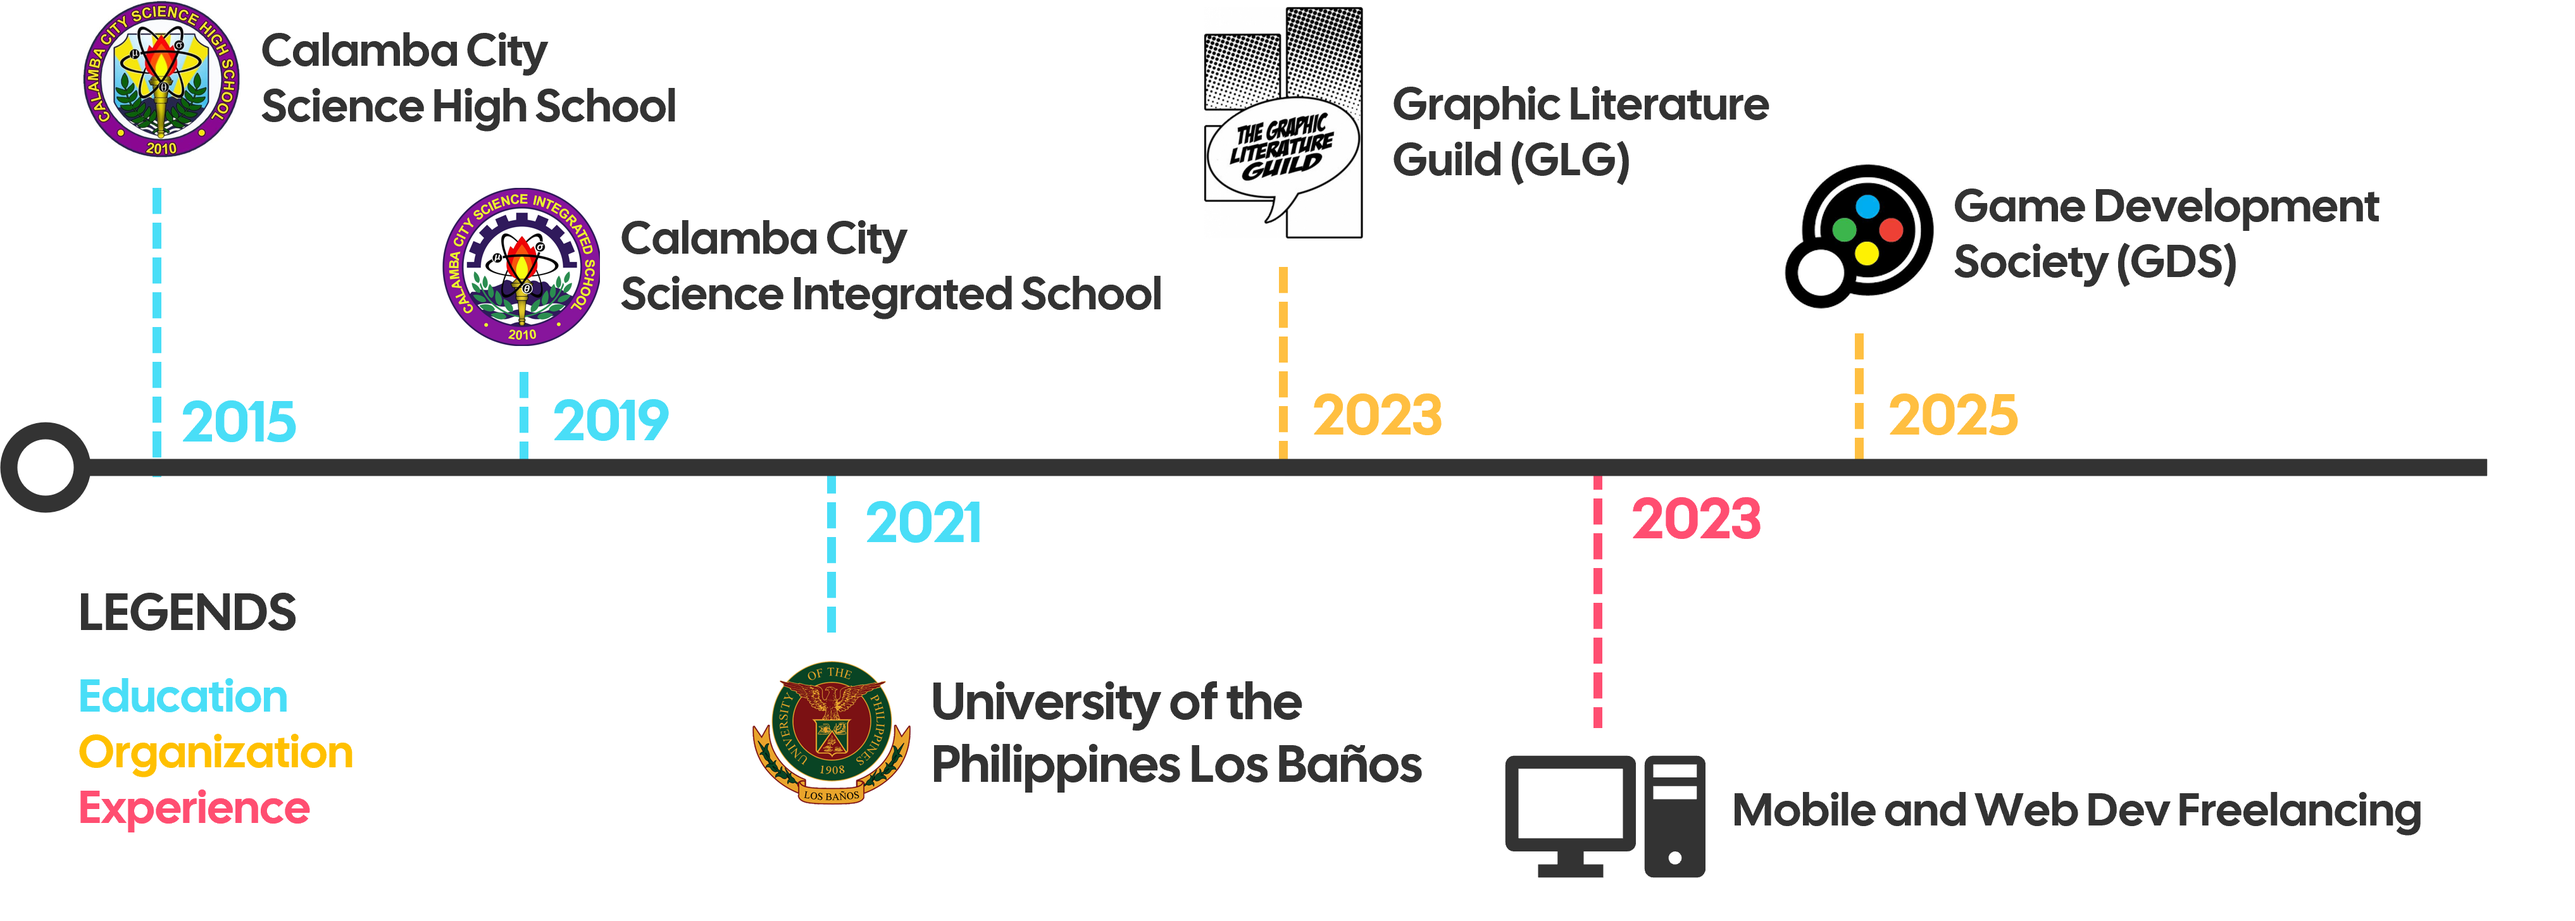
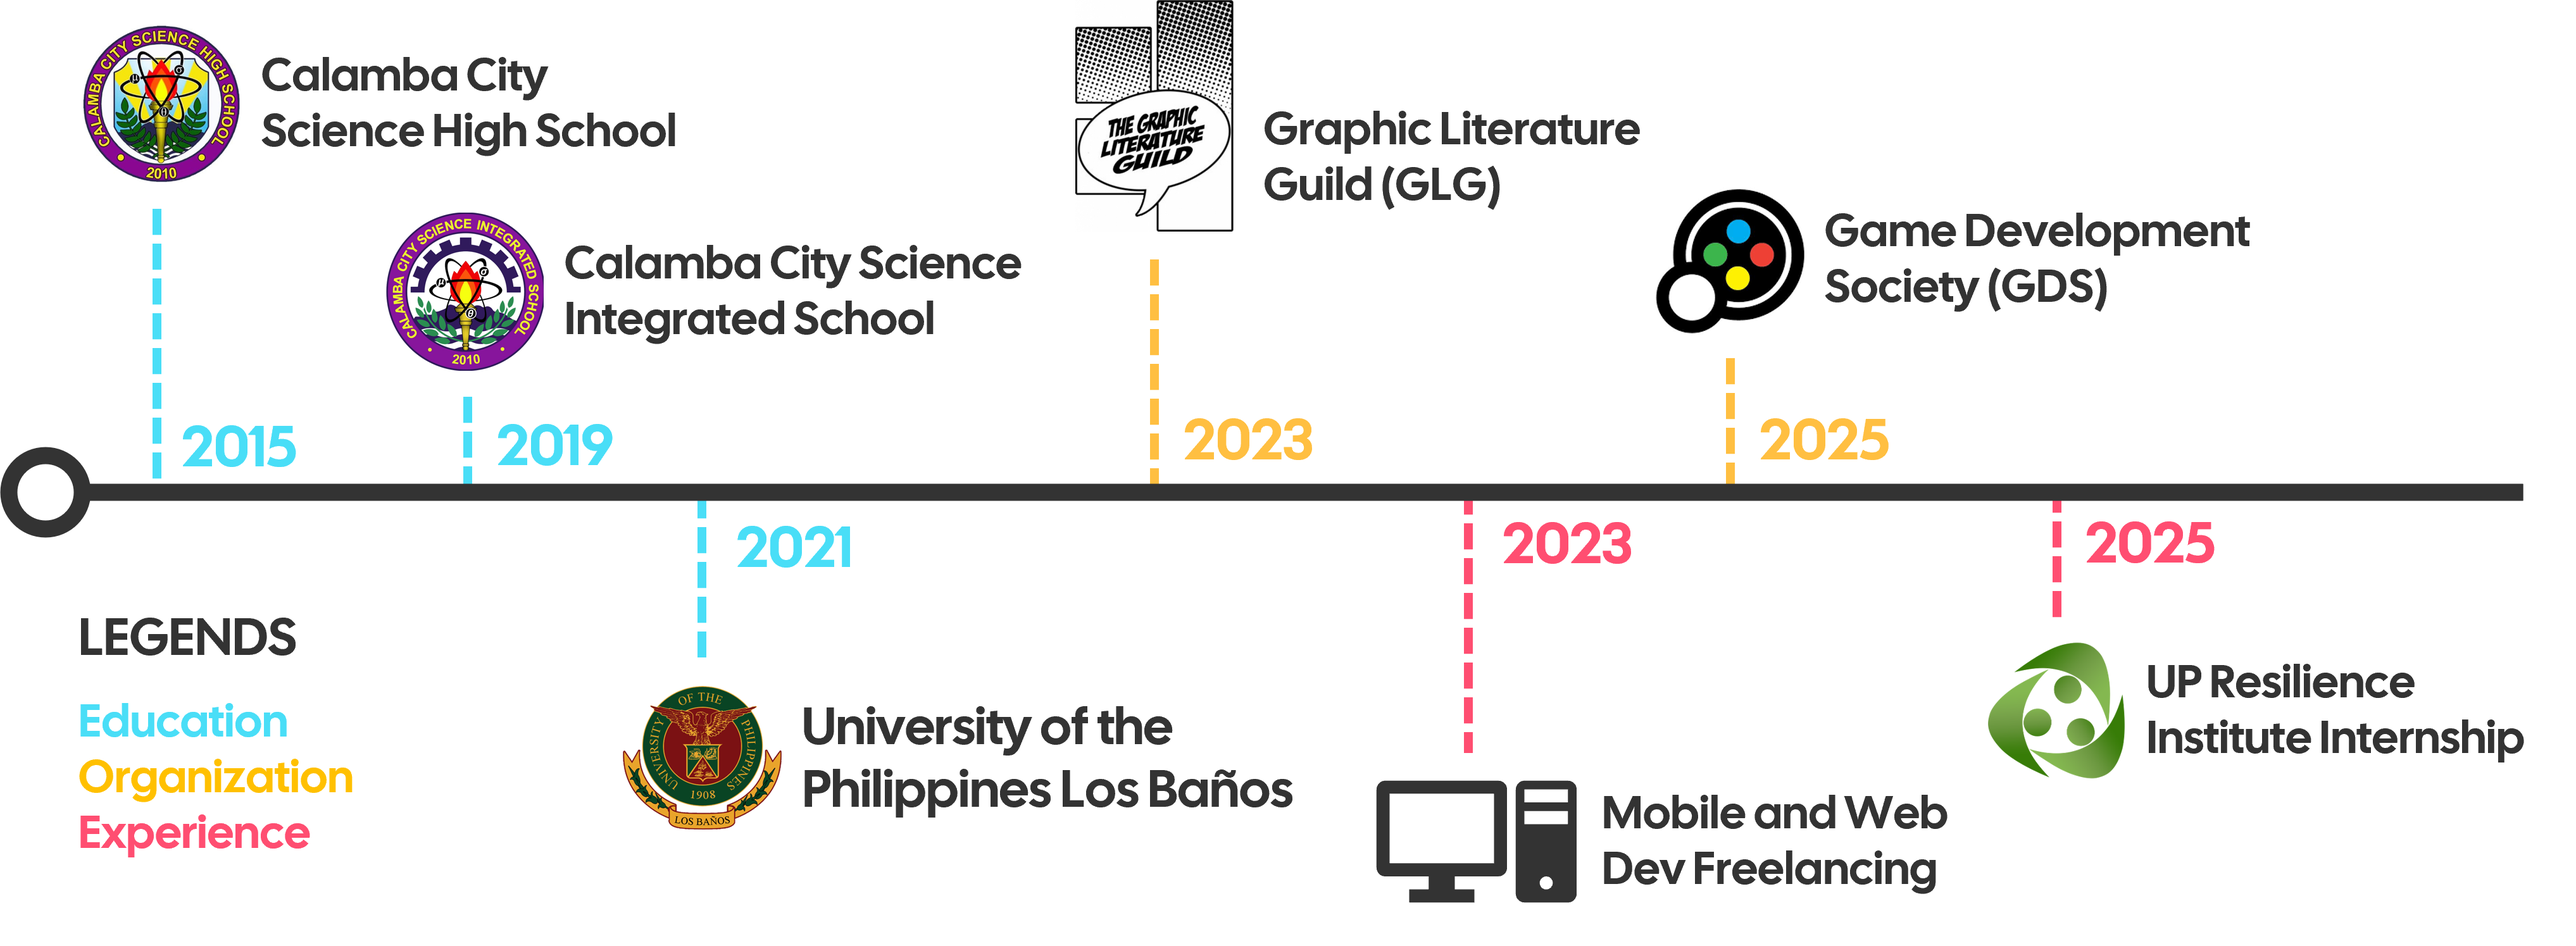
feat: add noah and ncnp to projects, add upri internship exp

diff --git a/src/App.js b/src/App.js
@@ -35,8 +35,9 @@ import pythonImage from "./images/python.png";
 import flutterImage from "./images/flutter.png";
 
 import artisanImage from "./images/artisan.png";
+import noahImage from "./images/noah-alt.png";
 import bricsImage from "./images/brics.png";
-import tetwImage from "./images/tetw-alt.png";
+import ncnpImage from "./images/ncnp.png";
 import travelwheelsImage from "./images/travelwheels.png";
 import healthmonImage from "./images/healthmon.png";
 import icsmsImage from "./images/icsms.png";
@@ -47,8 +48,25 @@ import boatsImage from "./images/boats.png";
 function ProjectCard(title, desc, done, type, purpose) {
 
   const doneColor = done ? '#C4D498' : '#FECE52'; 
-  const typeColor = type === 'mobile application' ? '#83E2DA' : type === 'website' ? '#BC8CE0' : type === '2d video game' ? '#F376A0' : '#BFBFBF';
-  const purposeColor = purpose === 'school activity' ? '#FFA039' : purpose === 'personal project' ? '#BC8CE0' : purpose === 'freelance project' ? '#3FCFFD' : '#BFBFBF';
+
+  const typeColor = type === 'mobile application'
+  ? '#83E2DA'
+  : type === 'website'
+  ? '#BC8CE0'
+  : type === '2d video game'
+  ? '#F376A0'
+  : '#BFBFBF';
+
+  const purposeColor = purpose === 'school activity' 
+  ? '#FFA039' 
+  : purpose === 'personal project' 
+  ? '#BC8CE0' 
+  : purpose === 'freelance project' 
+  ? '#3FCFFD' 
+  : purpose === 'internship project' 
+  ? '#7ED957' 
+  : '#BFBFBF';
+
 
   return (
     <div>
@@ -232,7 +250,29 @@ function Project() {
       <div className="d-flex justify-content-center mb-4">
         <img src={projectTitle} style={{height: "auto", width: "50vw", maxWidth: '300px'}} className="p-2 text-center"/>
       </div>
-      
+
+
+      <MDBCard className="border mb-3">
+        <MDBCardBody> 
+          <MDBRow className="g-4">
+            <MDBCol md="5">
+              <MDBCardImage src={noahImage} alt="Card image" fluid className="rounded h-100" style={{objectFit: 'contain'}}/>
+            </MDBCol>
+            <MDBCol md="7">
+              <MDBCardBody className="text-start">
+                {ProjectCard(
+                  "Nationwide Operational Assessment of Hazards (Project NOAH)",
+                  "Project NOAH is the Philippines'  primary disaster risk reduction and management program, managed by UP and formerly led by DOST from 2012 to 2017. My contribution here as an intern focuses on backend development for the data extraction component of the typhoon tracker feature.",
+                  true, "website", "internship project"
+                )}
+                <div className="mt-3"/>
+                <a href="https://noah.up.edu.ph/" target="_blank" rel="noopener noreferrer" style={{ textDecoration: "none" }}> Click here to visit website </a>
+              </MDBCardBody>
+            </MDBCol>
+          </MDBRow>
+        </MDBCardBody>
+      </MDBCard>
+
 
       <MDBCard className="border mb-3">
         <MDBCardBody> 
@@ -277,6 +317,26 @@ function Project() {
         </MDBCardBody>
       </MDBCard>
       
+      <MDBCard className="border mb-3">
+        <MDBCardBody> 
+          <MDBRow className="g-4">
+            <MDBCol md="5">
+              <MDBCardImage src={ncnpImage} alt="Card image" fluid className="rounded h-100" style={{objectFit: 'contain'}}/>
+            </MDBCol>
+            <MDBCol md="7">
+              <MDBCardBody className="text-start">
+                {ProjectCard(
+                  "Nor Crying, Nor Pain",
+                  "Nor Crying, Nor Pain or NCNP is a personal project on a 2D side-scroller puzzle game made using personally drawn assets and Godot Engine. It follow the story of a reporter investigating a peculiar election process on a secluded village where the protagonist must navigate through the area and use the environment to solve puzzles and escape the eldtrich horror that lies within.",
+                  false, "2d video game", "personal project"
+                )}
+              <div className="mt-3"/>
+              <a href="https://drive.google.com/drive/folders/1apGisbvn0EcNz5H45h7TBKcS0pOKJ2N3?usp=sharing" target="_blank" rel="noopener noreferrer" style={{ textDecoration: "none" }}> Click here to view downloadable apk </a>
+              </MDBCardBody>
+            </MDBCol>
+          </MDBRow>
+        </MDBCardBody>
+      </MDBCard>
 
       <MDBCard className="border mb-3">
         <MDBCardBody> 
@@ -287,7 +347,7 @@ function Project() {
             <MDBCol md="7">
               <MDBCardBody className="text-start">
                 {ProjectCard(
-                  "BOATS (Boat in Ocean: Animation and Terrain Simulation",
+                  "BOATS (Boat in Ocean: Animation and Terrain Simulation)",
                   "Boat in Ocean - Animation and Terrain Simulation” or “BOATS” is an interactive simulation highlighting WebGL capabilities to render animations and objects.",
                   true, "website", "school activity"
                 )}
@@ -319,29 +379,6 @@ function Project() {
           </MDBRow>
         </MDBCardBody>
       </MDBCard>
-
-
-      <MDBCard className="border mb-3">
-        <MDBCardBody> 
-          <MDBRow className="g-4">
-            <MDBCol md="5">
-              <MDBCardImage src={tetwImage} alt="Card image" fluid className="rounded h-100" style={{objectFit: 'contain'}}/>
-            </MDBCol>
-            <MDBCol md="7">
-              <MDBCardBody className="text-start">
-                {ProjectCard(
-                  "The Election That Wasn't",
-                  "The Election That Wasn't or TETW is a personal project on a 2D side-scroller puzzle game made using personally drawn assets and Godot Engine. It follow the story of a reporter investigating a peculiar election process on a secluded village where the protagonist must navigate through the area and use the environment to solve puzzles and escape the eldtrich horror that lies within.",
-                  false, "2d video game", "personal project"
-                )}
-              <div className="mt-3"/>
-              <a href="https://drive.google.com/drive/folders/1apGisbvn0EcNz5H45h7TBKcS0pOKJ2N3?usp=sharing" target="_blank" rel="noopener noreferrer" style={{ textDecoration: "none" }}> Click here to view downloadable apk </a>
-              </MDBCardBody>
-            </MDBCol>
-          </MDBRow>
-        </MDBCardBody>
-      </MDBCard>
-
 
       <MDBCard className="border mb-3">
         <MDBCardBody> 
